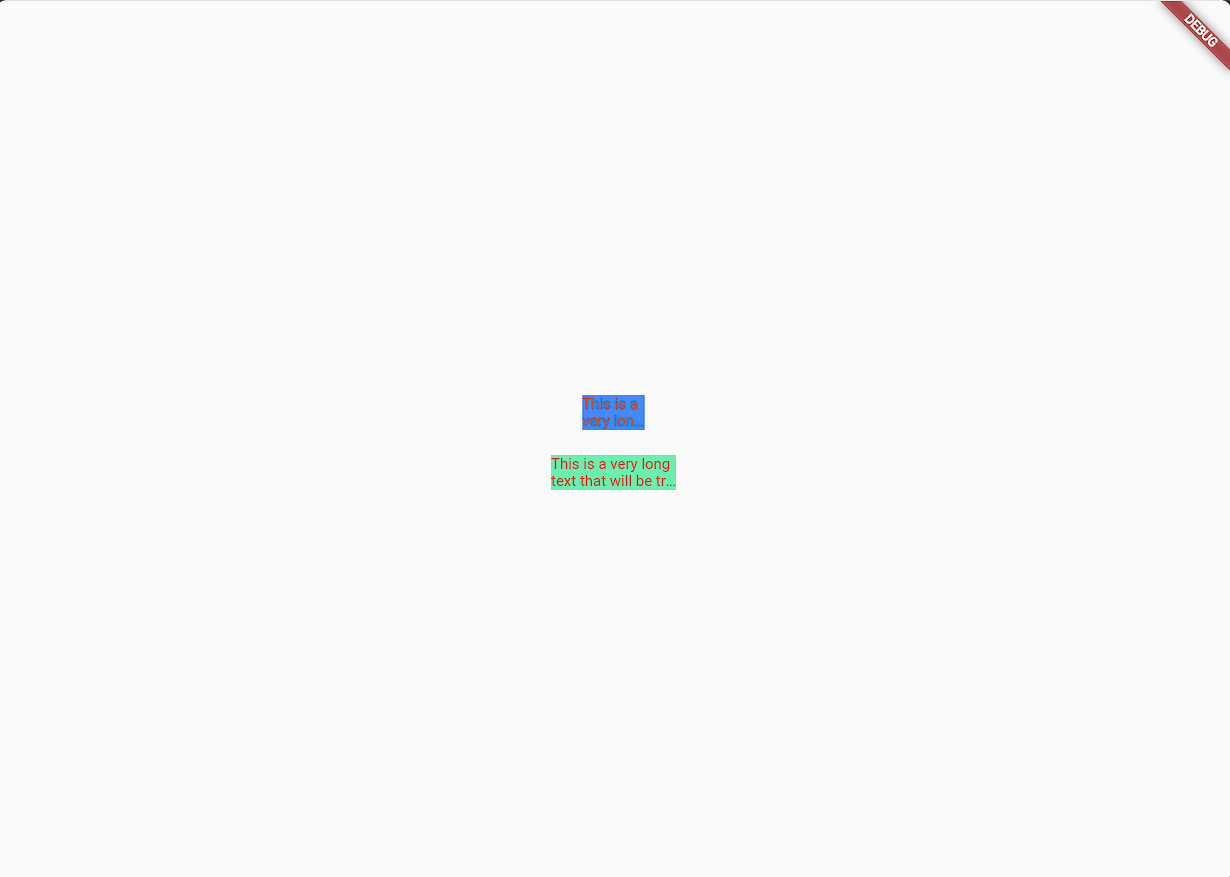
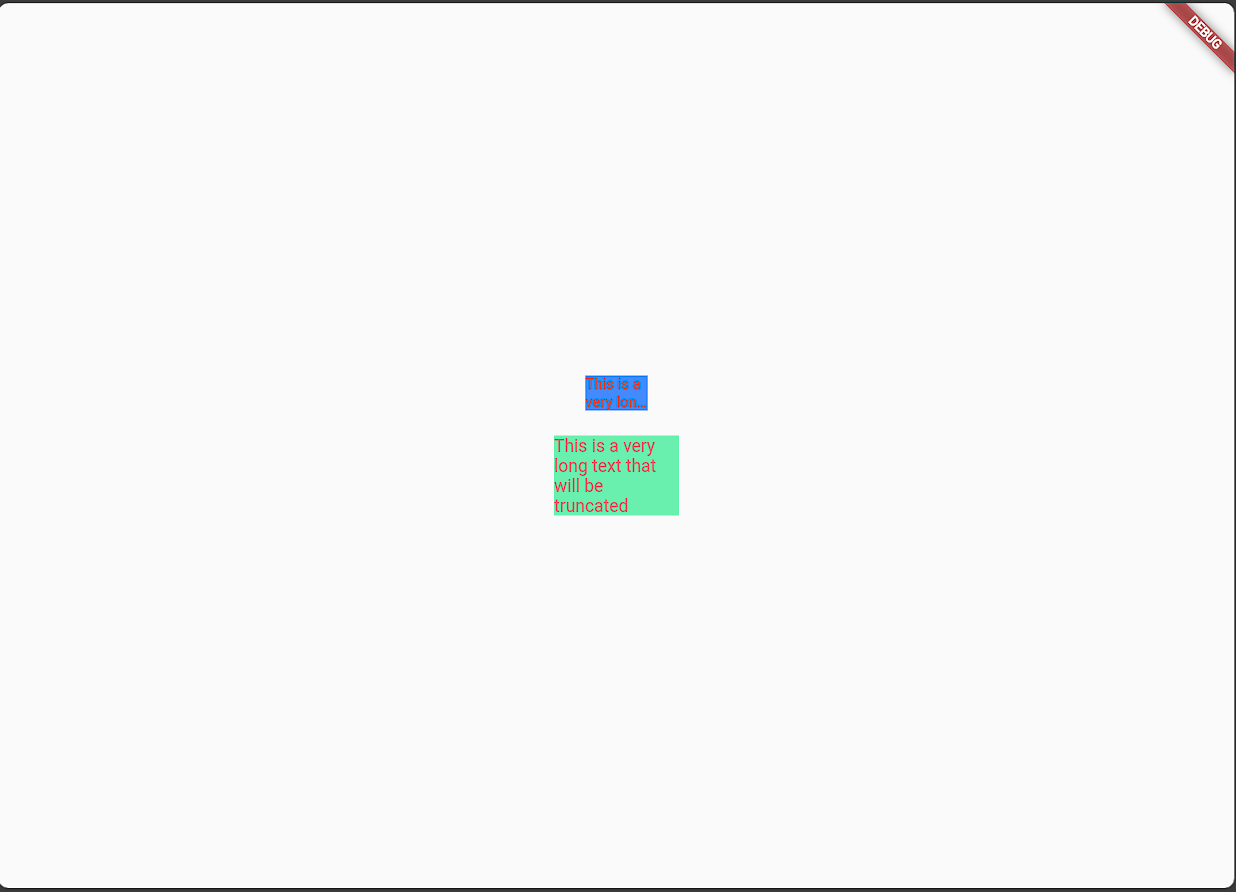
week_09: fix main.dart

Changed region(s): [[0.0, 0.0, 1.0, 1.0], [0.4325, 0.4002, 0.5561, 0.5849]]

diff --git a/week-09/src/flutter_plugin_pubdev/lib/main.dart b/week-09/src/flutter_plugin_pubdev/lib/main.dart
@@ -27,8 +27,11 @@ class MainApp extends StatelessWidget {
               Container(
                 color: Colors.greenAccent,
                 width: 100,
-                child: const RedTextWidget(
-                  text: 'This is a very long text that will be truncated',
+                child: const Text(
+                  'This is a very long text that will be truncated',
+                  style: TextStyle(
+                    color: Colors.redAccent,
+                  ),
                 ),
               ),
             ],

diff --git a/week-09/README.md b/week-09/README.md
@@ -56,7 +56,10 @@ class MainApp extends StatelessWidget {
                 color: Colors.greenAccent,
                 width: 100,
                 child: const Text(
-                  text: 'This is a very long text that will be truncated',
+                  'This is a very long text that will be truncated',
+                  style: TextStyle(
+                    color: Colors.redAccent,
+                  ),
                 ),
               ),
             ],
